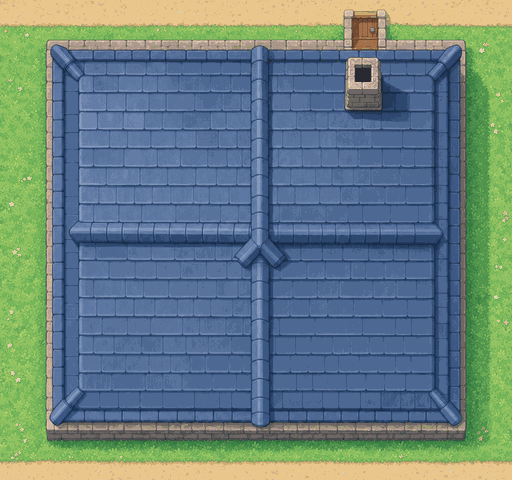
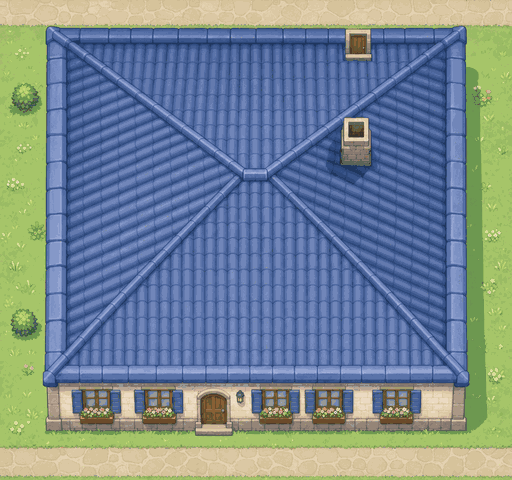
feat(W8): 美术管线 v1.0 任务 1–2 — 9 张 gpt-image-2 底图（合租房外观/1F/2F、校园三栋外观+室内，外观改宝可梦式正面墙）+ 21 件物品（品红抠像 int32 修复 + rekey）；校园按 arena 匹配屋顶/室内、2F 室内常显；物品别名与 1×2 转向；底图裁边；评审页宽图修正；report_shots/v1art/W8_*；WHALE_REPORT W8 节

diff --git a/front_end/src/game/scenes/GameScene.ts b/front_end/src/game/scenes/GameScene.ts
@@ -1,5 +1,5 @@
 import Phaser from 'phaser'
-import { WorldData, Player, WorldEvent, Position, OtherPlayer, GameObject, Facing } from '../../types'
+import { WorldData, Player, WorldEvent, Position, OtherPlayer, GameObject, Facing, Tile } from '../../types'
 import TileMap, { preloadTileAssets, TILE_SIZE, SOURCE_TILE, mapSize, tileCenter } from '../map/TileMap'
 import PlayerSprite from '../objects/Player'
 import OtherPlayerSprite from '../objects/OtherPlayerSprite'
@@ -274,12 +274,18 @@ export default class GameScene extends Phaser.Scene {
     for (const [name, meta] of Object.entries(m.backdrops)) {
       const key = aiBackdropKey(name)
       if (!this.textures.exists(key)) continue
-      const scale = TILE_SIZE / (meta.tile_px || m.tile_px || 32)
+      const tp = meta.tile_px || m.tile_px || 32
+      const scale = TILE_SIZE / tp
+      const mg = meta.margin ?? 1   // 版式导出时四周多带的地面格：裁掉，只贴建筑本体（setCrop 用纹理坐标，图仍从 x0,y0 起放）
       const img = this.add.image(meta.x0 * TILE_SIZE, meta.y0 * TILE_SIZE, key).setOrigin(0, 0).setScale(scale).setDepth(0.6)
+      img.setCrop(mg * tp, mg * tp, (meta.w - 2 * mg) * tp, (meta.h - 2 * mg) * tp)
       this.backdrops.push({ name, meta, img })
       if (meta.view === 'exterior') this.roofedSectors.add(meta.sector)
     }
     this.applyView(this.insideSector, true)
+    // 室内底图覆盖到的格：不再叠画像素楼梯图示
+    const interiors = this.backdrops.filter(b => b.meta.view === 'interior')
+    this.focus?.hideStairIcons((t) => interiors.some(b => t.x >= b.meta.x0 && t.x < b.meta.x0 + b.meta.w && t.y >= b.meta.y0 && t.y < b.meta.y0 + b.meta.h))
   }
 
   /** 两套视图：inside = 当前镜头进入的 sector（室内视图），其余有屋顶的 sector 显示屋顶、藏起屋内物品与人物 */
@@ -287,23 +293,38 @@ export default class GameScene extends Phaser.Scene {
     if (!force && inside === this.insideSector) return
     this.insideSector = inside
     for (const b of this.backdrops) {
-      const hasPair = this.roofedSectors.has(b.meta.sector)
-      if (!hasPair) { b.img.setVisible(true); continue }           // 只有一张（如 2F 室内）→ 常显
+      const hasPair = this.backdrops.some(o => o.meta.view === 'exterior' && o.meta.sector === b.meta.sector && o.meta.floor === b.meta.floor)
+      if (!hasPair) { b.img.setVisible(true); continue }           // 同层没有外观图（如 2F 室内画在别处）→ 常显
       const showInterior = b.meta.sector === inside
       b.img.setVisible(b.meta.view === 'interior' ? showInterior : !showInterior)
     }
+    this.focus?.setRoofed((tile) => this.underRoof(tile))
     // 屋内物品：所在 sector 有屋顶且不是当前进入的 → 隐藏（只对 1F；2F 另有位置，照常）
     this.objectSprites.forEach((o, i) => {
       const t = this.tileIndex.get(`${this.objectTiles[i]?.x},${this.objectTiles[i]?.y}`)
-      const roofed = !!t?.sector && this.roofedSectors.has(t.sector) && t.sector !== inside && (this.focus?.floorOf(t) ?? 1) === 1
-      o.setVisible(!roofed)
+      const k = this.roofKeyOf(t)
+      o.setVisible(!(k && k !== inside && (this.focus?.floorOf(t) ?? 1) === 1))
     })
+  }
+
+  /** 该格属于哪张外观底图的建筑：manifest 的 backdrop.sector 既可能是 sector（home）也可能是 arena（classroom / library / music_room 都在 sector=university 里） */
+  private roofKeyOf(t: Tile | undefined): string | null {
+    if (!t) return null
+    if (t.sector && this.roofedSectors.has(t.sector)) return t.sector
+    if (t.arena && this.roofedSectors.has(t.arena)) return t.arena
+    return null
+  }
+
+  /** 镜头所在格对应的室内视图键（不在任何有屋顶的建筑里 → null，显示全部外观） */
+  private insideKeyAt(tile: { x: number; y: number } | null | undefined): string | null {
+    return tile ? this.roofKeyOf(this.tileIndex.get(`${tile.x},${tile.y}`)) : null
   }
 
   /** 人物是否被屋顶挡住 */
   private underRoof(tile: Position): boolean {
     const t = this.tileIndex.get(`${tile.x},${tile.y}`)
-    return !!t?.sector && this.roofedSectors.has(t.sector) && t.sector !== this.insideSector && (this.focus?.floorOf(t) ?? 1) === 1
+    const k = this.roofKeyOf(t)
+    return !!k && k !== this.insideSector && (this.focus?.floorOf(t) ?? 1) === 1
   }
 
   /** 运行中换图：新 tileset 可能还没加载，先加载再重建 */
@@ -540,7 +561,7 @@ export default class GameScene extends Phaser.Scene {
     }
     // W7 取景：进屋推近 + 屋外压暗
     const fr = this.focus.update(focusTile, dt, useGameStore.getState().worldState)
-    this.applyView(fr.indoor && focusTile ? (this.tileIndex.get(`${focusTile.x},${focusTile.y}`)?.sector ?? null) : null)
+    this.applyView(fr.indoor ? this.insideKeyAt(focusTile) : null)
     if (this.params?.focus && !this.targetId && focusTile) {
       const want = fr.indoor && fr.zoom ? fr.zoom : this.followZoom
       if (want !== this.focusZoom) { this.focusZoom = want; cam.zoomTo(want, ZOOM_MS, 'Sine.easeInOut', true) }
@@ -583,7 +604,7 @@ export default class GameScene extends Phaser.Scene {
       const p = this.self!.getPixelPosition()
       const fr0 = this.focus.update(this.self!.getTile(), dt, store.worldState)
       const st0 = this.self!.getTile()
-      this.applyView(fr0.indoor ? (this.tileIndex.get(`${st0.x},${st0.y}`)?.sector ?? null) : null)
+      this.applyView(fr0.indoor ? this.insideKeyAt(st0) : null)
       this.centerClamped(p.x, p.y)
     } else {
       this.updateSpectateCamera(time, dt)

diff --git a/front_end/src/game/objects/GameObjectSprite.ts b/front_end/src/game/objects/GameObjectSprite.ts
@@ -2,7 +2,7 @@ import Phaser from 'phaser'
 import { GameObject } from '../../types'
 import { tileToPixel, TILE_SIZE } from '../map/TileMap'
 import { objTextureKey } from '../assets'
-import { aiObjectKey, aiEnabled } from '../aiAssets'
+import { aiObjectKey, aiEnabled, aiObjectTypeFor } from '../aiAssets'
 
 const COLOR_OBJECT = 0x8b6b3e
 const TYPE_ICON: [RegExp, string][] = [
@@ -31,6 +31,8 @@ function tooltipLabel(obj: GameObject): string {
 /** 地图物品：有 sprite 用图；没有就画一个带名字的圆角色块（E6 换美术前的占位） */
 export default class GameObjectSprite {
   private nodes: Phaser.GameObjects.GameObject[] = []
+  private tooltip: Phaser.GameObjects.Text | null = null
+  private hiddenByRoof = false
 
   constructor(scene: Phaser.Scene, obj: GameObject) {
     const footprint = obj.tiles && obj.tiles.length > 0 ? obj.tiles : [obj.position]
@@ -45,16 +47,18 @@ export default class GameObjectSprite {
     const imgH = rows * TILE_SIZE
 
     // 优先自制图（按物品类型；bed_21 这类直接有同名图），其次后端给的旧图，借用占位图不用
-    const aiKey = aiEnabled() && scene.textures.exists(aiObjectKey(obj.type)) ? aiObjectKey(obj.type) : aiEnabled() && scene.textures.exists(aiObjectKey(obj.type.replace(/_\d+$/, ''))) ? aiObjectKey(obj.type.replace(/_\d+$/, '')) : null
+    const aiType = aiObjectTypeFor(obj.type)
+    const aiKey = aiEnabled() && scene.textures.exists(aiObjectKey(obj.type)) ? aiObjectKey(obj.type) : aiEnabled() && scene.textures.exists(aiObjectKey(aiType)) ? aiObjectKey(aiType) : null
     const genKey = aiKey ? aiKey : scene.textures.exists(objTextureKey(obj.type)) ? objTextureKey(obj.type)
       : scene.textures.exists(objTextureKey(obj.type.replace(/_\d+$/, ''))) ? objTextureKey(obj.type.replace(/_\d+$/, '')) : null
     const spriteKey = genKey ?? (obj.sprite && !isBorrowedSprite(obj) ? `obj_${obj.sprite}` : null)
     let hit: Phaser.GameObjects.GameObject
     if (spriteKey && scene.textures.exists(spriteKey)) {
-      const img = scene.add.image(px + imgW / 2, py + imgH / 2, spriteKey)
-        .setDisplaySize(imgW, imgH)
-        .setDepth(1)
-        .setInteractive()
+      const img = scene.add.image(px + imgW / 2, py + imgH / 2, spriteKey).setDepth(1).setInteractive()
+      // AI 图竖着、footprint 横着（bed_21 借 bed 图）→ 转 90°，显示尺寸互换
+      const srcTex = scene.textures.get(spriteKey).getSourceImage() as { width: number; height: number }
+      const srcPortrait = srcTex.height > srcTex.width, fpLandscape = cols > rows
+      if (aiKey && srcPortrait && fpLandscape) { img.setAngle(-90); img.setDisplaySize(imgH, imgW) } else img.setDisplaySize(imgW, imgH)
       this.nodes.push(img)
       hit = img
     } else {
@@ -83,16 +87,21 @@ export default class GameObjectSprite {
       .setOrigin(0.5, 1)
       .setDepth(10)
       .setVisible(false)
-    this.nodes.push(tooltip)
-    hit.on('pointerover', () => tooltip.setVisible(true))
+    this.tooltip = tooltip
+    hit.on('pointerover', () => { if (!this.hiddenByRoof) tooltip.setVisible(true) })
     hit.on('pointerout',  () => tooltip.setVisible(false))
   }
 
-  /** 室内物品在屋顶视图下隐藏（W8 两套视图） */
-  setVisible(v: boolean) { for (const n of this.nodes) (n as unknown as { setVisible?: (b: boolean) => void }).setVisible?.(v) }
+  /** 室内物品在屋顶视图下隐藏（W8 两套视图）；tooltip 只在悬停时显示，不受影响 */
+  setVisible(v: boolean) {
+    this.hiddenByRoof = !v
+    for (const n of this.nodes) (n as unknown as { setVisible?: (b: boolean) => void }).setVisible?.(v)
+    if (!v) this.tooltip?.setVisible(false)
+  }
 
   destroy() {
     for (const n of this.nodes) n.destroy()
+    this.tooltip?.destroy()
     this.nodes = []
   }
 }

diff --git a/front_end/src/game/systems/SceneFocus.ts b/front_end/src/game/systems/SceneFocus.ts
@@ -27,6 +27,7 @@ export default class SceneFocus {
   private v2: MapV2
   private tileIndex = new Map<string, Tile>()
   private edgeNodes: Phaser.GameObjects.GameObject[] = []
+  private edgeNodeTiles: { node: Phaser.GameObjects.GameObject; tile: { x: number; y: number } }[] = []
   private doorNodes: { edge: MapEdge; img: Phaser.GameObjects.Image; label: Phaser.GameObjects.Text }[] = []
   private lastLockSig = ''
   private indoor = false
@@ -45,6 +46,7 @@ export default class SceneFocus {
     this.tileIndex = new Map(world.tiles.map(t => [`${t.x},${t.y}`, t]))
     for (const n of this.edgeNodes) n.destroy()
     this.edgeNodes = []
+    this.edgeNodeTiles = []
     for (const d of this.doorNodes) { d.img.destroy(); d.label.destroy() }
     this.doorNodes = []
     this.labels = []
@@ -56,7 +58,7 @@ export default class SceneFocus {
         const img = this.scene.add.image(p.x * TILE_SIZE + TILE_SIZE / 2, p.y * TILE_SIZE + TILE_SIZE / 2, objTextureKey('stairs')).setDisplaySize(TILE_SIZE - 8, TILE_SIZE - 8).setDepth(2)
         const f = e.floors ? `${e.floors[0]}F↔${e.floors[1]}F` : '楼梯'
         const t = this.scene.add.text(p.x * TILE_SIZE + TILE_SIZE / 2, p.y * TILE_SIZE - 2, f, { fontFamily: 'system-ui, sans-serif', fontSize: '12px', color: '#fff', stroke: '#000', strokeThickness: 3 }).setOrigin(0.5, 1).setDepth(3).setResolution(2)
-        this.edgeNodes.push(img, t); this.labels.push(t)
+        this.edgeNodes.push(img, t); this.labels.push(t); this.edgeNodeTiles.push({ node: img, tile: p }, { node: t, tile: p })
       }
     }
     // 门（有时段的）
@@ -77,6 +79,15 @@ export default class SceneFocus {
   }
 
   get hasV2() { return this.v2.hasV2 }
+  /** W8：屋顶视图下藏起楼梯 / 门标记（roofed = 有屋顶且当前没进入的 sector） */
+  setRoofed(isRoofed: (tile: { x: number; y: number }) => boolean) {
+    for (const { node, tile } of this.edgeNodeTiles) (node as unknown as { setVisible: (b: boolean) => void }).setVisible(!isRoofed(tile))
+    for (const d of this.doorNodes) { const p = d.edge.tiles[d.edge.tiles.length - 1]; if (p && isRoofed(p)) { d.img.setVisible(false); d.label.setVisible(false) } }
+  }
+  /** W8：AI 室内底图里已经画了楼梯 → 这些格的像素楼梯图示不再叠画（文字标签保留） */
+  hideStairIcons(covered: (tile: { x: number; y: number }) => boolean) {
+    for (const { node, tile } of this.edgeNodeTiles) if (node instanceof Phaser.GameObjects.Image && covered(tile)) node.setVisible(false)
+  }
   /** 调试 */
   debugLabels() { return this.labels.map(l => ({ text: l.text, scale: l.scaleX, visible: l.visible, x: l.x, y: l.y, depth: l.depth })) }
   /** 某 sector 或 arena（可选楼层）的中心格，给 &focus= 用 */

diff --git a/front_end/src/review/AssetsReviewApp.tsx b/front_end/src/review/AssetsReviewApp.tsx
@@ -68,11 +68,11 @@ export default function AssetsReviewApp() {
               return (
                 <div key={t} style={card}>
                   <div style={{ display: 'flex', gap: 8, alignItems: 'baseline' }}><b>{t}</b><span style={{ marginLeft: 'auto', color: '#8a897f', fontSize: 12 }}>{last ? `$${(last.cost_usd_est ?? 0).toFixed(2)} · ${last.latency_s ?? '–'}s` : ''}</span></div>
-                  <div style={{ display: 'flex', gap: 10, alignItems: 'flex-end', marginTop: 8, background: '#2a3a2a', padding: 8, borderRadius: 6 }}>
-                    <img src={`assets/gen/obj_${t}.png`} alt="old" onError={hide} style={{ height: 96, imageRendering: 'pixelated' }} />
+                  <div style={{ display: 'flex', gap: 10, alignItems: 'flex-end', marginTop: 8, background: '#2a3a2a', padding: 8, borderRadius: 6, overflow: 'hidden' }}>
+                    <img src={`assets/gen/obj_${t}.png`} alt="old" onError={hide} style={{ ...objImg, imageRendering: 'pixelated' }} />
                     <span style={{ color: '#8a897f' }}>→</span>
-                    <img src={`assets/gen-ai/objects/${t}.png`} alt="new" onError={hide} style={{ height: 96, imageRendering: 'pixelated' }} />
-                    <img src={`assets/gen-ai/review/obj_${t}_raw.png`} alt="raw" onError={hide} style={{ height: 96, marginLeft: 'auto', borderRadius: 4, opacity: 0.9 }} />
+                    <img src={`assets/gen-ai/objects/${t}.png`} alt="new" onError={hide} style={{ ...objImg, imageRendering: 'pixelated' }} />
+                    <img src={`assets/gen-ai/review/obj_${t}_raw.png`} alt="raw" onError={hide} style={{ ...objImg, marginLeft: 'auto', borderRadius: 4, opacity: 0.9 }} />
                   </div>
                   {last?.prompt && <button onClick={() => setShowPrompt(last.prompt!)} style={{ ...btn, marginTop: 6, fontSize: 11 }}>看提示词</button>}
                 </div>
@@ -90,6 +90,7 @@ export default function AssetsReviewApp() {
   )
 }
 const btn: React.CSSProperties = { padding: '6px 12px', borderRadius: 6, border: 'none', background: '#2c2c2a', color: '#f0efec', fontSize: 13, cursor: 'pointer' }
+const objImg: React.CSSProperties = { height: 96, maxWidth: '34%', objectFit: 'contain', objectPosition: 'bottom', flex: '0 1 auto' }
 const card: React.CSSProperties = { background: '#1a1a19', border: '1px solid #2c2c2a', borderRadius: 10, padding: 12 }
 const h2: React.CSSProperties = { fontSize: 16, margin: '18px 0 8px', color: '#c3c2b7' }
 function median(a: number[]) { const s = [...a].sort((x, y) => x - y); return s[Math.floor(s.length / 2)] }

diff --git a/front_end/src/game/aiAssets.ts b/front_end/src/game/aiAssets.ts
@@ -3,7 +3,7 @@
  *   manifest.json = { tile_px, backdrops: { <name>: {sector, floor, view, x0, y0, w, h, px, tile_px, qa_score} }, objects: [type, ...] }
  * 开关：URL `&ai=0` 或 localStorage.aiAssets === 'off' 关闭（评审页「一键替换」切这个）。
  */
-export interface AiBackdrop { sector: string; floor: number; view: 'interior' | 'exterior'; x0: number; y0: number; w: number; h: number; px: number; tile_px: number; qa_score?: number }
+export interface AiBackdrop { sector: string; floor: number; view: 'interior' | 'exterior'; x0: number; y0: number; w: number; h: number; px: number; tile_px: number; qa_score?: number; margin?: number }
 export interface AiManifest { tile_px: number; backdrops: Record<string, AiBackdrop>; objects: string[] }
 
 let manifest: AiManifest | null = null
@@ -28,6 +28,10 @@ export async function loadAiManifest(): Promise<AiManifest | null> {
     return manifest
   } catch { return null }
 }
+
+/** 物品类型别名：没有专属 AI 图的类型借同类图（bed_21 借 bed 并旋转 90°，见 GameObjectSprite） */
+export const AI_OBJECT_ALIAS: Record<string, string> = { pc_desk: 'pc', book: 'shelf', sofa: 'sofa_tv', cook: 'stove', desk: 'classroom_desk', bed_21: 'bed', desk_12: 'reading_desk', game_console: 'pc' }
+export function aiObjectTypeFor(type: string): string { return AI_OBJECT_ALIAS[type] ?? type.replace(/_\d+$/, '') }
 
 export const aiBackdropKey = (name: string) => `aibg_${name}`
 export const aiObjectKey = (type: string) => `aiobj_${type}`

diff --git a/front_end/src/flat/FlatApp.tsx b/front_end/src/flat/FlatApp.tsx
@@ -74,7 +74,7 @@ export default function FlatApp() {
           if (nb) g.strokeRect(tx * px + 1, ty * px + 1, px - 2, px - 2)
         }
       }
-      ;(window as unknown as { __flatMeta: unknown }).__flatMeta = { sector, floor, view, x0, y0, w, h, px, mapVersion: world.worldState?.mapVersion ?? null }
+      ;(window as unknown as { __flatMeta: unknown }).__flatMeta = { sector, floor, view, x0, y0, w, h, px, margin, mapVersion: world.worldState?.mapVersion ?? null }
       setStatus(`${sector} ${floor}F ${view} ${w}×${h} 格 @${px}px`)
       document.title = `flat:${sector}:${floor}:${view}`
     }).catch(e => setStatus(String(e)))

diff --git a/front_end/vite.config.ts b/front_end/vite.config.ts
@@ -109,6 +109,8 @@ export default defineConfig(({ mode }) => {
     ],
     server: {
       host: true,                 // 监听 0.0.0.0，局域网可达
+      // tools/.venv（几千个文件）、data/、报告截图、参考图不参与热更新，否则 inotify 配额会被吃光（ENOSPC）
+      watch: { ignored: ['**/tools/.venv/**', '**/data/**', '**/report_shots/**', '**/ref/**', '**/public/assets/gen-ai/review/**'] },
       port: Number(env.VITE_PORT) || 5173,
       strictPort: false,
       proxy,

diff --git a/front_end/WHALE_REPORT.md b/front_end/WHALE_REPORT.md
@@ -1,4 +1,83 @@
-分支 `whale-frontend`，worktree `own-repos/BASIC_SANDBOX-fe/`，已 rebase 到 B 的 `41b42dd`。只改了 `front_end/`。截图在 `front_end/report_shots/`（v1 地图评审包在 `report_shots/v1map/`）。
+分支 `whale-frontend`，worktree `own-repos/BASIC_SANDBOX-fe/`，已 rebase 到 B 的 `0d091e1`。只改了 `front_end/`。截图在 `front_end/report_shots/`（v1 地图评审包 `report_shots/v1map/`，美术管线截图 `report_shots/v1art/W8_*`）。
+
+---
+
+# W8 · 2026-11-07：美术管线 v1.0（gpt-image-2 底图 + 物品，任务 1–2 先交主播看）
+
+## 1. 进度（先做了任务 1、2，等主播看过再做 3–5）
+
+| # | 任务 | 状态 | 做了什么 |
+|---|---|---|---|
+| 1 | 合租房外观 + 1F/2F 室内 | 完成 | 3 张底图：`home_1f_exterior`（16×15 格，宝可梦式 3/4 外观：蓝瓦屋顶 + 底边正面墙 + 门窗花箱）、`home_1f_interior`（三间 + 厨房瓷砖，内墙按 B 的版式）、`home_2f_interior`（阿蝉房，画在 B 画布的 2F 位置，常显） |
+| 2 | 校园三栋外观 + 室内、20 件核心物品 | 完成 | 教室 / 图书馆 / 音乐室各 1 外观 + 1 室内（共 6 张）；物品 21 件（任务书 20 件 + `door_closed`）：bed、pc、fridge、stove、restaurant_table、sofa_tv、pc_music、piano、reading_desk、classroom_desk、shelf、bar、shop_counter、fishing_spot、fish_stall、bench、notice_board、door_closed、stairs、tree、fountain。见 `report_shots/v1art/W8_objects_sheet.png` |
+| 3 | 鲸仔 / 阿蝉形象 | 未开始 | 等主播对 1–2 的画风拍板后再做（行走帧用 `images.edit` 一致性仍是风险，见 §5） |
+| 4 | 其余区域底图 + NPC | 未开始 | 餐馆 / 商店 / 渔夫屋 / 小千屋 / 餐厅老板屋 / 码头 / 广场 / 公园的底图和 NPC 形象 |
+| 5 | 评审页 + 报告 | 完成（页）/ 本节 | `/assets-review`：底图四联（平涂版式 → 原始输出 → 对齐 QA 叠图 → 量化成品）+ QA 分 + 次数 + 费用；物品三联（旧像素 → 新 AI → 原始输出）；「一键替换」切 `localStorage.aiAssets`；每张可看提示词 |
+
+**主播补充三条全部按要求做了**：① 统一相机——室内俯视 3/4（参考 `ref/gpt-image-probe/house.png`），外观按主播 11-07 的话改成宝可梦式「看得见正面墙」；鲸仔 / 阿蝉动作表只作画风与配色参考喂给模型，没有照抄侧视；② 小镇视角房屋不镂空（屋顶 + 外墙），相机跟到的人进屋才切室内图；每栋都有外观 + 室内，2F 单独一张；③ 室外小物件（长椅、喷泉、树、公告栏、鱼摊、钓位）一套，室内物件只在室内视图出现（屋顶盖住时隐藏物品和人物）。
+
+## 2. 管线（`tools/gen_assets_ai.py`，全部在 `front_end/`）
+
+```
+/flat 页（Vite）──flat_export.mjs──▶ data/assets/flats/<区域>_<层>f_<视图>.png + .json（x0,y0,w,h,px,margin）
+   │ 平涂版式：按 B 8091 的 /world 画每格颜色（地板/瓷砖/红毯/墙/门/楼梯；exterior = 屋顶色 + 底边一行外墙色）
+   ▼
+gen_assets_ai.py backdrops  ──▶ gpt-image-2 images.edit([letterbox 版式, 画风参考], prompt, quality=high)
+   │ 对齐 QA：墙/门色块轮廓 vs 生成图边缘，覆盖率 ≥ 0.9 过，否则换提示重试（最多 2 次）
+   │ 反 letterbox 裁回版式比例 → 缩到 32 px/格 → ≤ 64 色量化 → public/assets/gen-ai/backdrops/<名>.png + .json
+gen_assets_ai.py objects    ──▶ images.edit([画风参考, 室内参考], 「品红 #FF00FF 纯底」prompt)
+   │ 品红抠像（tol 90 / 软边 40）→ 裁包围盒 → 等比装进 w×h 格（32 px/格）→ 底对齐 → ≤ 64 色
+gen_assets_ai.py manifest   ──▶ public/assets/gen-ai/manifest.json + review/ 缩略图 + gen.jsonl 同步
+每次调用一行 data/assets/gen.jsonl：kind/name/attempt/prompt/size/quality/usage tokens/latency/cost_usd_est/qa_score/error
+```
+
+子命令：`backdrops --regions home:1:interior,... --attempts 2 --qa 0.9 [--dry-run]`、`objects --items bed,pc`、`qa`（只重算分）、`rekey`（只重抠像，不花钱）、`manifest`。gpt-image-2 **不支持** `input_fidelity`、`background=transparent`、seed（三条都是 400 撞出来的，见 §4）；只能用 1024²/1536×1024/1024×1536 三种尺寸，所以版式先 letterbox 进最接近的比例。
+
+游戏接入：`src/game/aiAssets.ts` 读 manifest、`&ai=0` / `localStorage.aiAssets` 开关；`GameScene.placeBackdrops` 把底图贴在 `(x0,y0)` 格、`setCrop` 裁掉版式四周 1 格地面、深度 0.6（地砖之上、物品之下）；`applyView(inside)`：镜头进了某栋（按 backdrop 的 sector **或 arena** 匹配——校园三栋 sector 都是 `university`，按 arena 分）就显示它的室内图、其余有外观图的显示屋顶并隐藏屋内 1F 物品 / 人物；同层没有外观图的室内（2F）常显。物品精灵优先用 `aiobj_<type>`，别名表 `pc_desk→pc、book→shelf、cook→stove、desk→classroom_desk、bed_21→bed、desk_12→reading_desk、game_console→pc`；1×2 的床遇到 2×1 的占位时转 90°。
+
+## 3. 结果与费用（`data/assets/gen.jsonl`，57 次调用）
+
+| 项 | 值 |
+|---|---|
+| 成功 / 失败 | 35 / 22（22 次失败全是参数 400：1 次 `input_fidelity`、21 次 `background=transparent`，**不计费**） |
+| 底图 | 9 张成品，14 次成功调用（home_2f 3 次、home_1f_int / classroom_int / library_int / home_1f_ext 各 2 次） |
+| 物品 | 21 张，21 次，一次过 |
+| 对齐 QA（最终成品） | 外观：home 1.000、classroom 1.000、music_room 1.000、library 0.965；室内：home_2f 0.972、library 0.949、music_room 0.946、classroom 0.914、**home_1f 0.899**（差 0.001，三间房 + 厨房的内墙全对上，缺的是门洞一角，放行，见评审页叠图） |
+| 时延 | 52–97 s / 张，均 74 s（high） |
+| token | 331,295（usage 字段汇总） |
+| 费用估算 | **$8.75**（35 × $0.25；$0.25/张 high 是**假设**，按 gpt-image-1 high 1024² 价；官方账单以 token 计，请总控按实际账单核） |
+| 预算 | 任务书 ≤ 200 张，用了 35 张（17.5%） |
+
+截图（`report_shots/v1art/`，8091 草图镇，无人物）：`W8_overview.jpg` 全镇 1/6 zoom（屋顶版）与 `W8_overview_pixel.jpg`（`&ai=0` 像素版，同机位对照）、`W8_town_roofs.jpg` 合租房屋顶 + 公园广场物品、`W8_home_1f_ai.jpg` / `W8_home_2f_ai.jpg` 进屋取景、`W8_campus_ai.jpg`（镜头在图书馆：它显示室内、两侧教室 / 音乐室保持屋顶）、`W8_classroom_ai.jpg`、`W8_assets_review.jpg` 评审页整页、`W8_objects_sheet.png` 21 件物品一览。
+
+## 4. 踩过的坑（都已处理）
+
+1. **gpt-image-2 参数**：`input_fidelity` 400 → 去掉；`background="transparent"` 400 → 改品红纯底 + 自己抠像；没有 seed，重试靠改提示词。
+2. **抠像 int16 溢出**：第一版 alpha 全 NaN（物品几乎透明），改 int32；已跑完的 21 张用 `rekey` 离线重抠，没有重新花钱。
+3. **小房间照抄参考图**：home_2f 前两次把 `house.png` 参考的房间布局搬进来（QA 0.58 / 0.49）。底图输入去掉室内参考、提示词加「layout must follow the first image exactly」→ 0.972。室内参考现在只喂给物品。
+4. **QA 指标**：最初「所有边缘 IoU」把地板纹理也算进去，对齐良好的图只有 0.55；改成「版式的墙 / 门色块轮廓 → 生成图在同位置（±格宽/3）有没有边」的覆盖率，与肉眼一致。
+5. **外观视角**：第一版是纯俯视屋顶，主播要宝可梦式正面墙 → 版式底边加一行「外墙色」、提示词改写，4 张外观一次过（3 张 1.0）。
+6. **校园三栋不切室内**：tile 的 sector 是 `university`、底图按 arena 命名，匹配不到 → 改成 sector 或 arena 都认（§2）。
+
+## 5. 请主播 / 总控 / B 定
+
+1. **主播**：① 画风（蓝瓦 + 米墙 + 木家具、俯视 3/4）可以吗？② 外观的正面墙比例（约 1.5 格高）够不够「宝可梦」？③ 室内墙厚 1 格、门洞不画门扇（门用 `door_closed` 物品叠）是否接受？拍板后做任务 3（形象）和 4（其余区域）。
+2. **B（请总控转）**：合租房的入口在 **北边**（`door_home`：a=街道 (12,20)、b=鲸仔房 (12,21)，建筑顶边），而 3/4 外观只能把门画在南面正面墙上，现在从北门进屋在画面上是「从屋顶走进去」。建议 v1 地图把合租房门移到南侧（或所有带外观的建筑门都开在南 / 东西侧），校园三栋门已在南侧没问题。另外合租房的 2F 单独画在画布左下，前端当常显室内处理，不需要改。
+3. **总控**：不切 5173（任务书要求）；本周的 `node_modules` 之外新增了 `front_end/tools/.venv`（openai / numpy / pillow，已 gitignore），其他机器跑管线要 `python -m venv tools/.venv && tools/.venv/bin/pip install openai numpy pillow`，密钥从 `~/.env` 读 `OPENAI_API_KEY`。
+
+## 6. 假设（没有依据的决定）
+
+- 费用 $0.25/张（high）；底图 32 px/格、≤ 64 色；对齐阈值 0.9、重试 2 次。
+- 版式四周多带 1 格地面让模型画出屋檐 / 投影，贴图时裁掉。
+- 人物形象（任务 3）准备用 1024×1024 一张 4 向 × 3 帧的动作表 + 自动切格，和 v1 文字版同尺寸（16×24 帧）；若行走帧抖动大就只换立绘不换行走帧——等主播看完再定。
+
+## 7. 提交号
+
+| 项 | 值 |
+|---|---|
+| 代码 | `whale-frontend` @ 本提交（基于 B 的 `0d091e1`） |
+| 新增文件 | `tools/gen_assets_ai.py`、`tools/flat_export.mjs`、`src/flat/FlatApp.tsx`、`src/review/AssetsReviewApp.tsx`、`src/game/aiAssets.ts`、`public/assets/gen-ai/**`（9 底图 + 21 物品 + manifest + review 缩略图 + gen.jsonl）、`data/assets/{flats/,gen.jsonl}`、`report_shots/v1art/W8_*` |
+| 新增参数 | `&ai=0`（旁观 / 操控 / 回放页关 AI 素材）、`/flat?sector=&floor=&view=&px=&margin=`、`/assets-review` |
 
 ---
 
